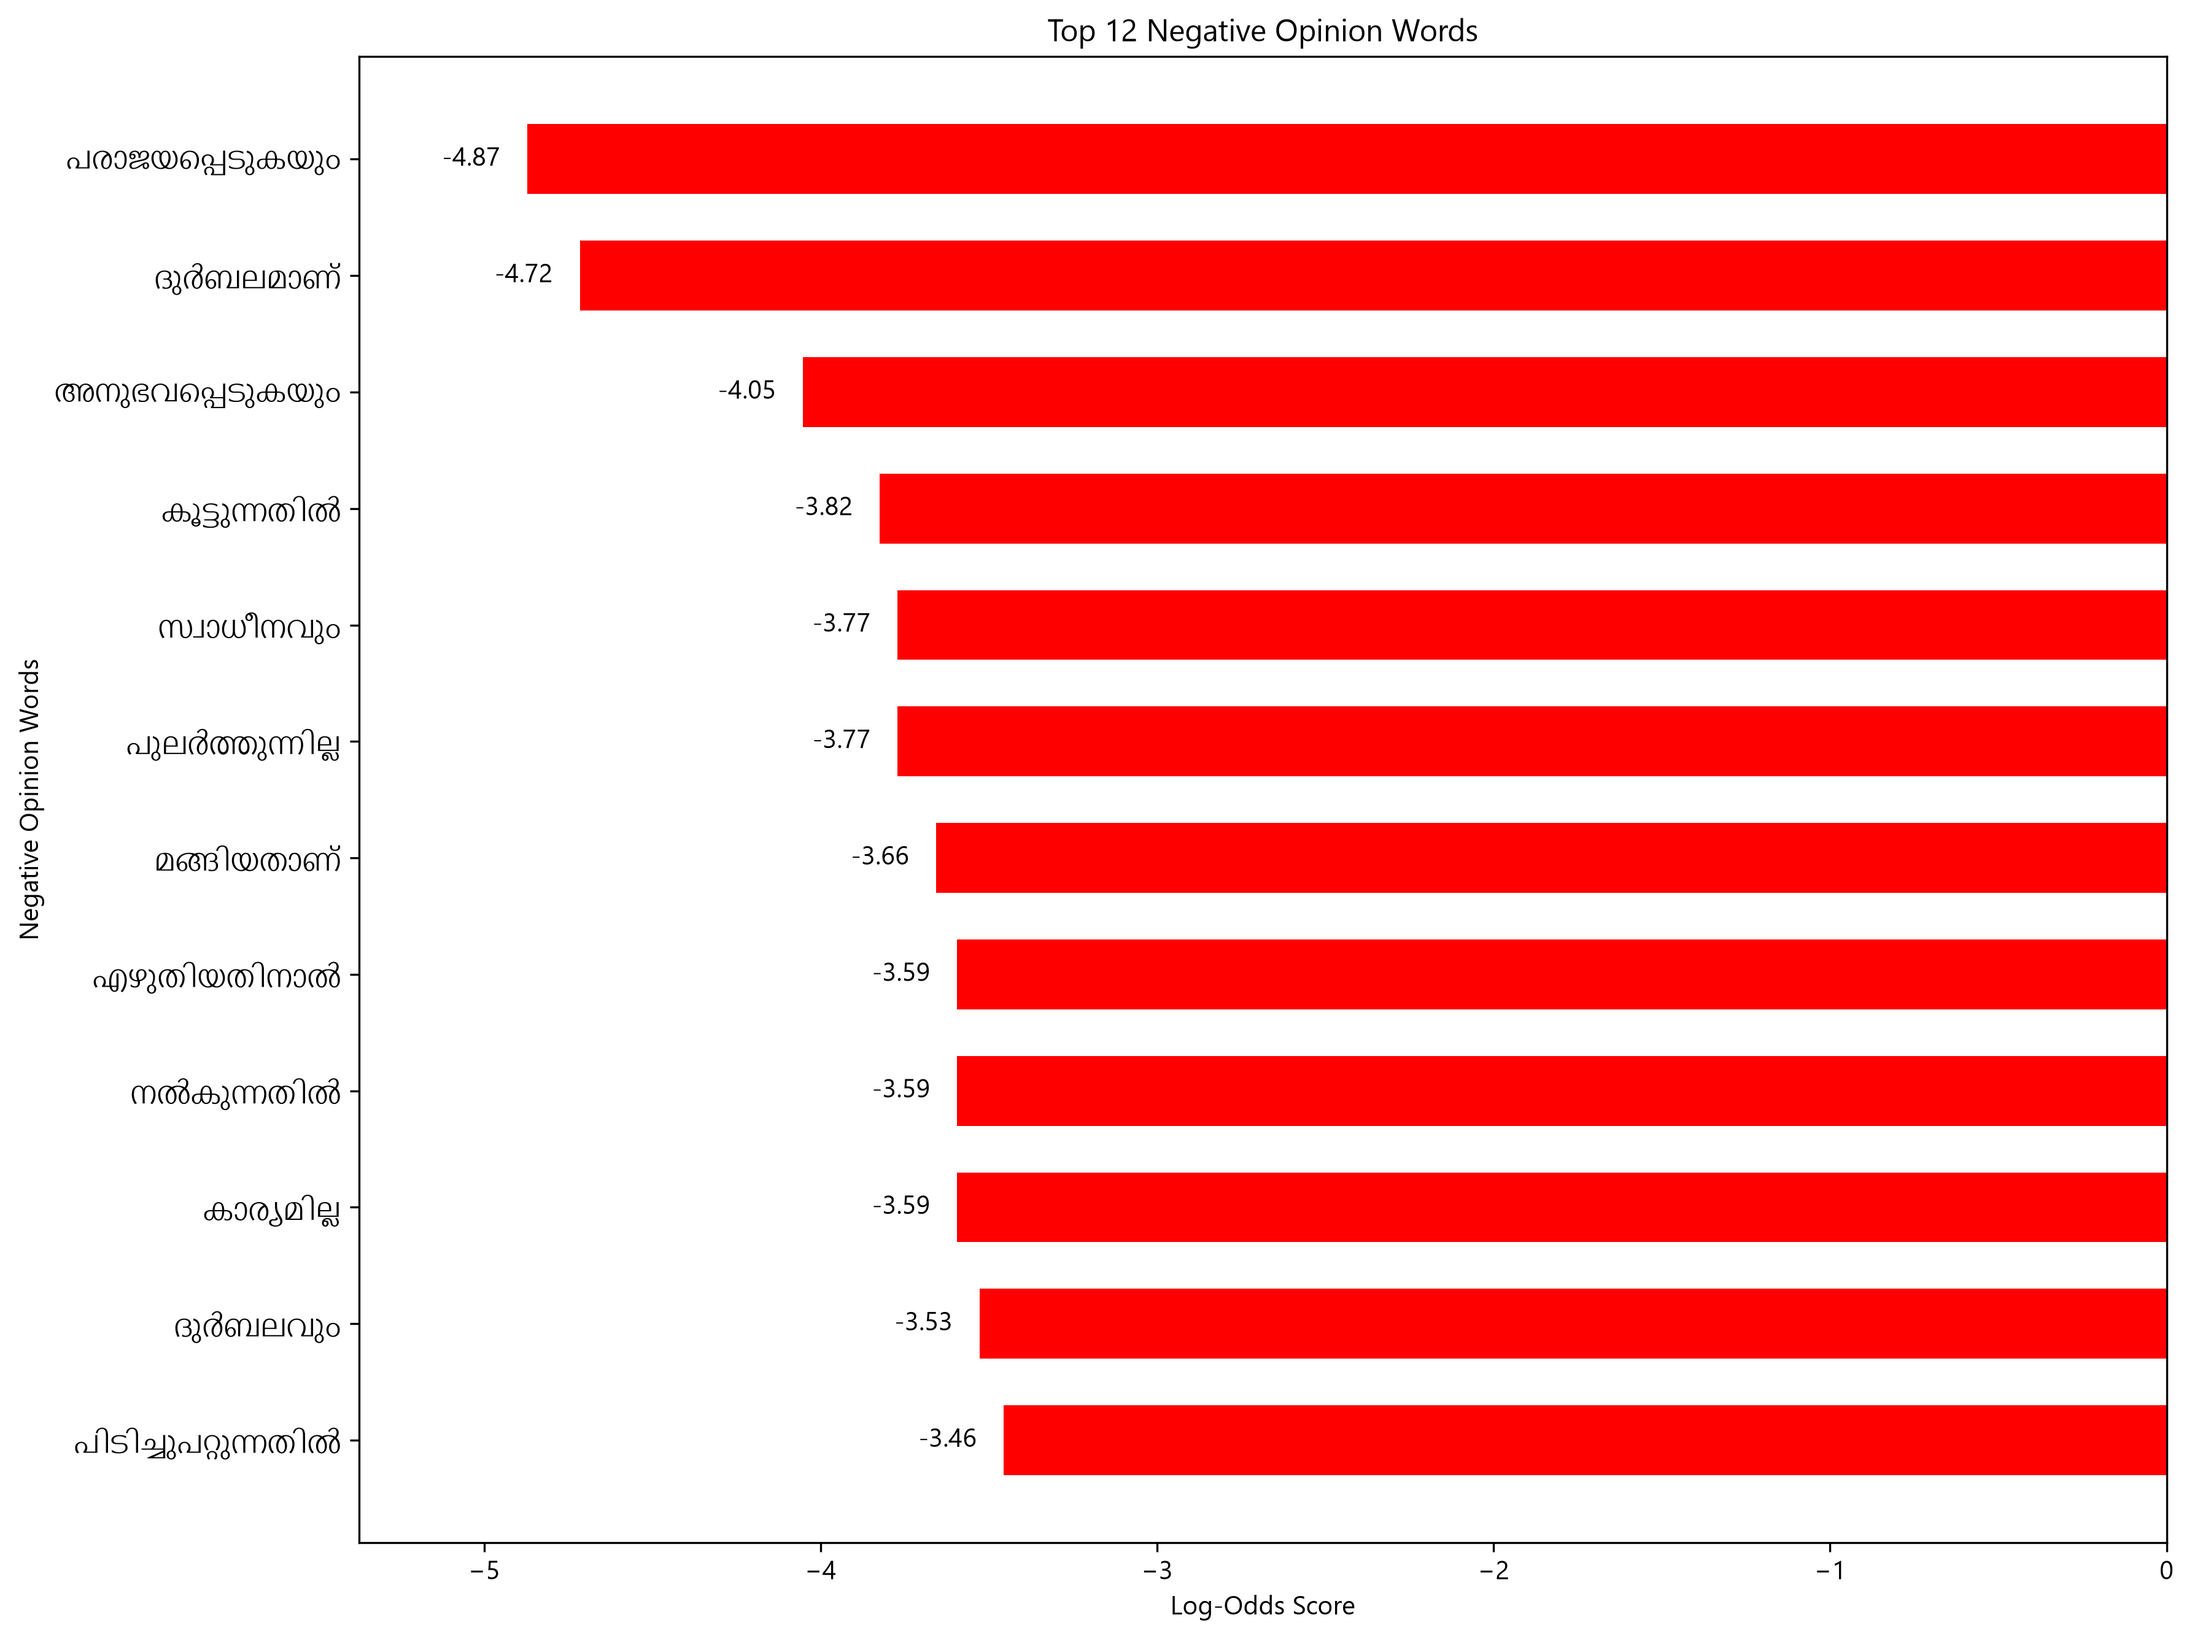
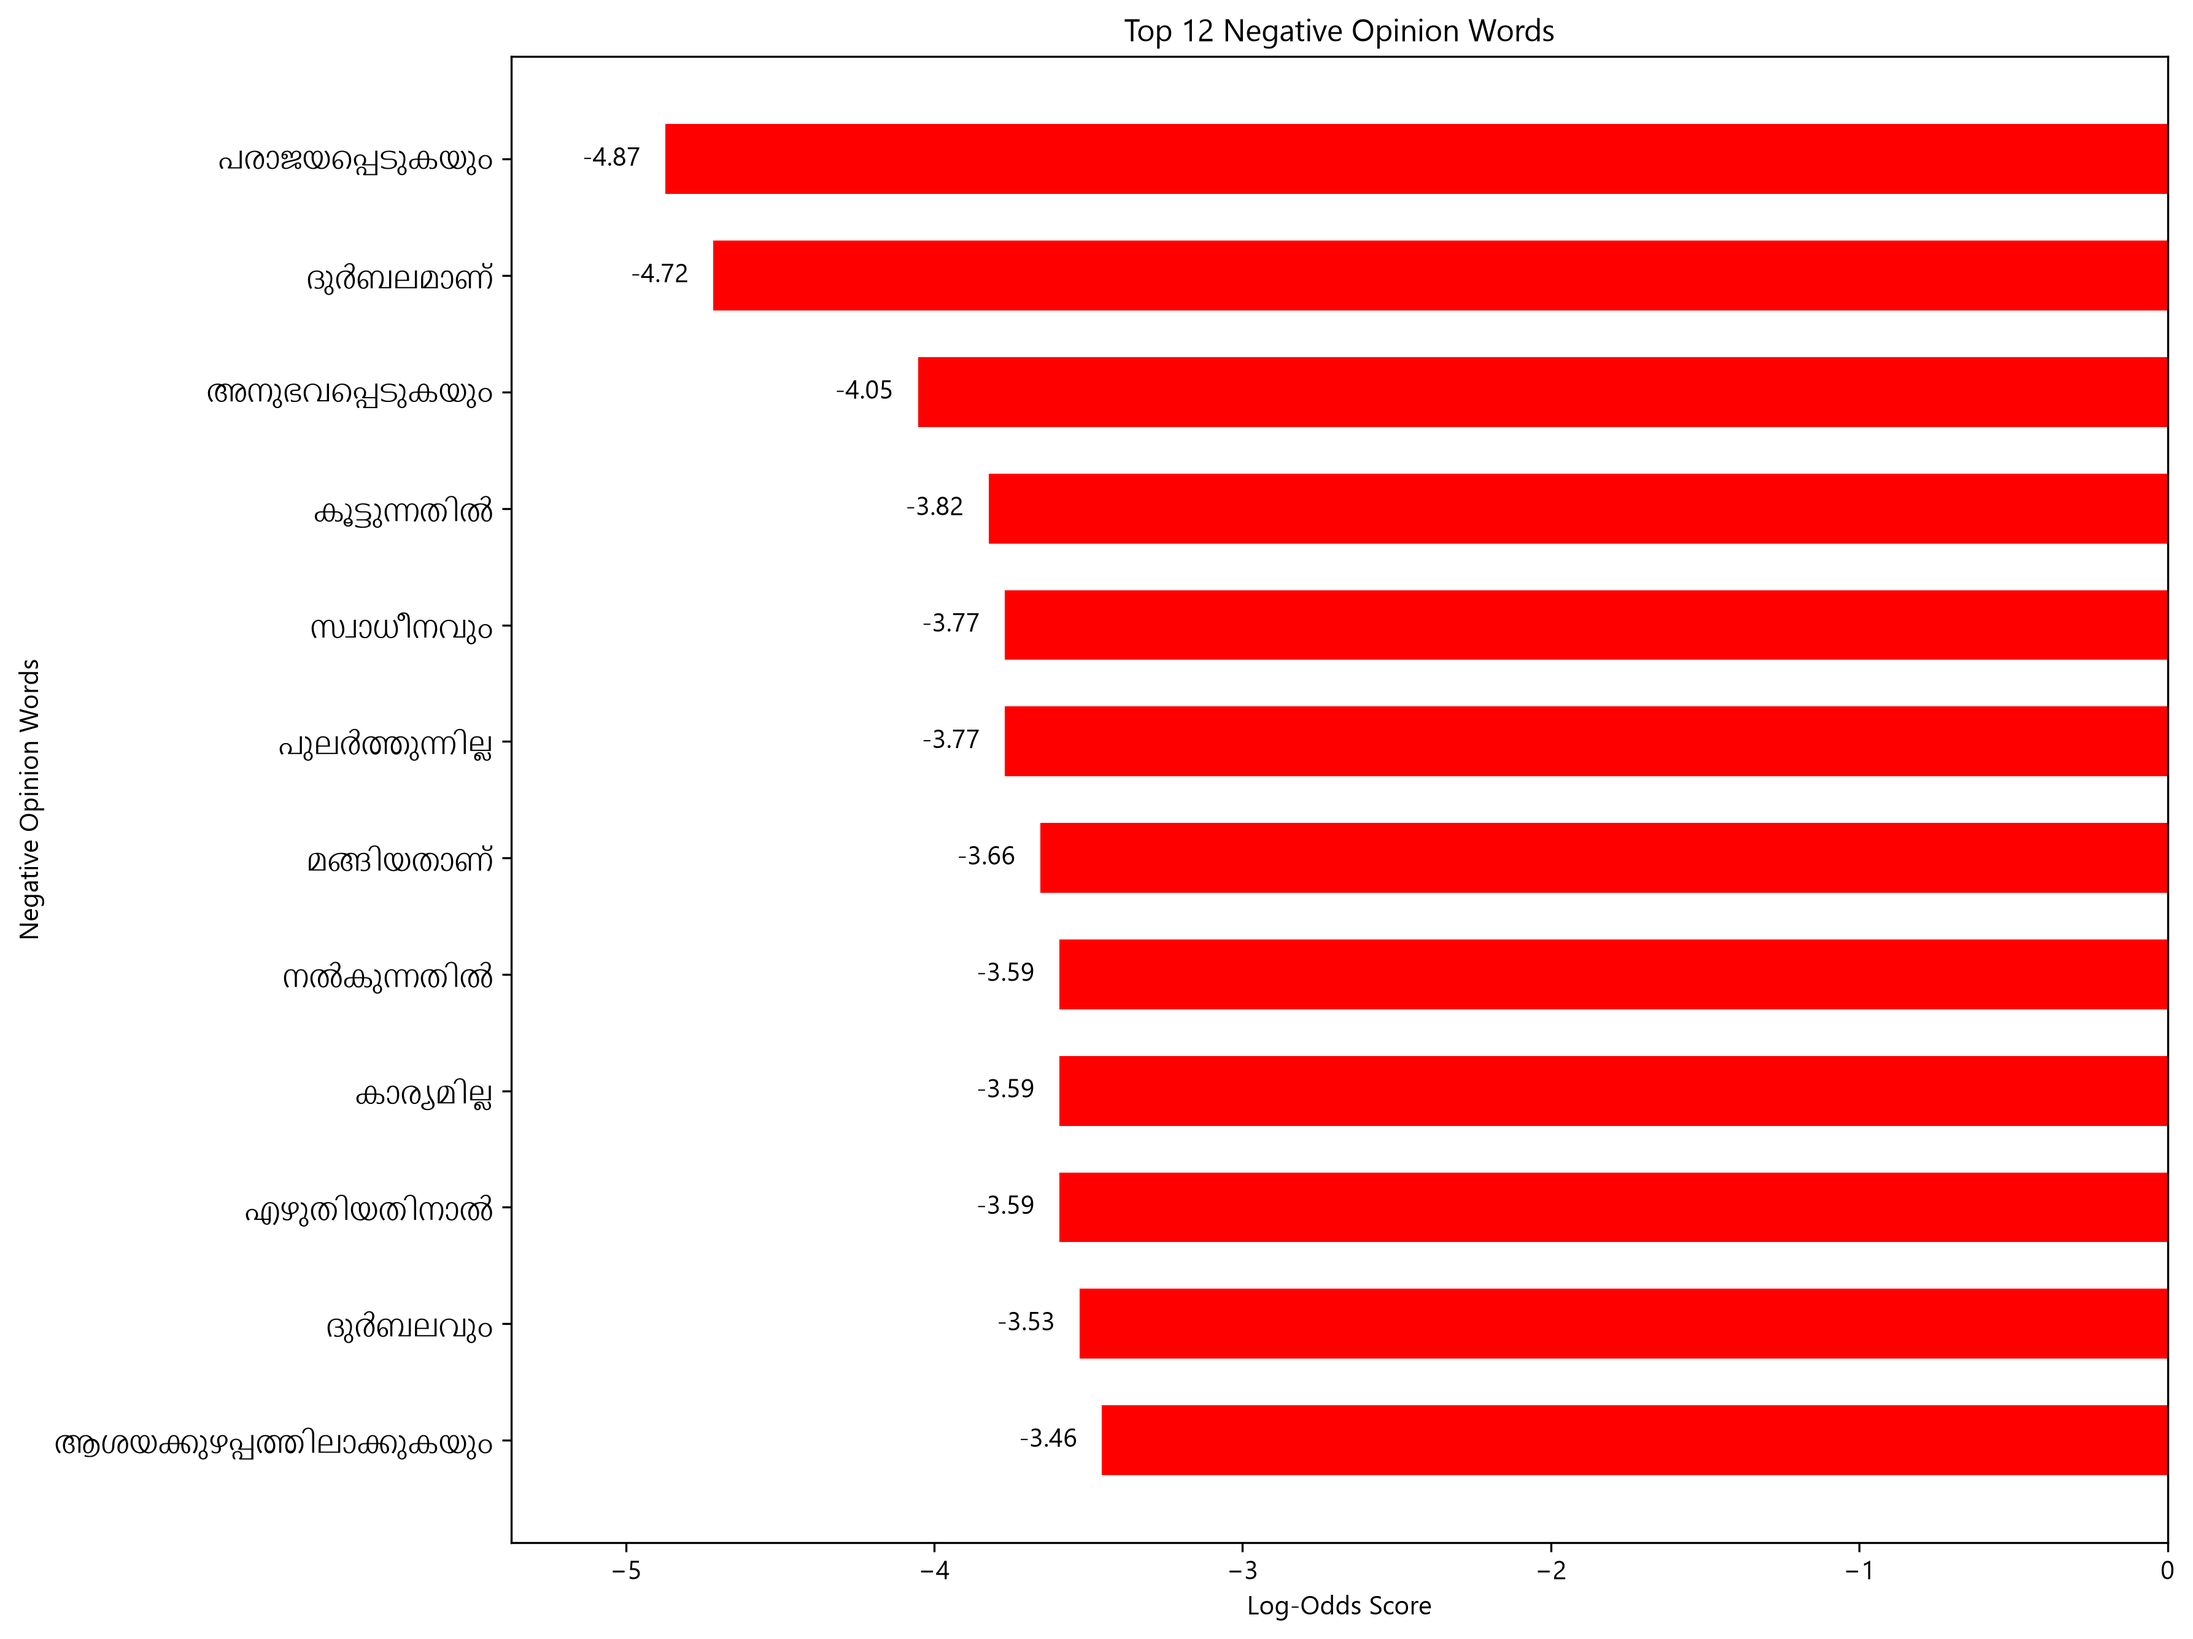
Complete Q11 Seaborn morphological visualizations

diff --git a/src/visualizer.py b/src/visualizer.py
@@ -3,8 +3,14 @@ import unicodedata
 import re
 from collections import Counter
 import math
+import seaborn as sns
 import matplotlib.pyplot as plt
+from matplotlib.patches import Patch
 plt.rcParams["font.family"] = "Nirmala UI"
+from sklearn.model_selection import train_test_split
+from sklearn.feature_extraction.text import TfidfVectorizer
+from sklearn.linear_model import LogisticRegression
+from sklearn.metrics import confusion_matrix
 
 #morphological feature extraction function
 
@@ -180,3 +186,80 @@ if __name__ == "__main__":
     plt.tight_layout()
     plt.savefig("top12_negative_opinion_words.png",dpi=300,bbox_inches="tight")
     plt.show()
+
+    #Q11 : Seaborn Violin plot
+
+    violin_data = df[["Sentiment","Chillaksharams","Vowel_Signs"]].melt(
+        id_vars="Sentiment",
+        var_name="Feature",
+        value_name="Frequency"
+    )
+
+    plt.figure(figsize=(10,6))
+    sns.violinplot(
+        x="Feature",
+        y="Frequency",
+        hue="Sentiment",
+        data=violin_data,
+        split=True,
+        inner="quart",
+        palette={0: "red", 1: "green"}
+    )
+    legend_elements = [
+        Patch(facecolor="red", label="Negative"),
+        Patch(facecolor="green", label="Positive")
+    ]
+    plt.legend(handles=legend_elements, title="Sentiment")
+    plt.title("Morphological Feature  Distribution by Sentiment")
+    plt.xlabel("Morphological Feature")
+    plt.ylabel("Frequency")
+    plt.xticks(
+        ticks=[0, 1],
+        labels=["Chillaksharams", "Vowel Signs"]
+    )
+
+    sns.despine()
+    plt.tight_layout()
+    plt.savefig("q11_morphological_feature_distribution.png", dpi=300, bbox_inches="tight")
+    plt.show()
+    plt.close()
+
+    #confusion matrix
+
+    X = df["Review"].fillna("").astype(str)
+    y = df["Sentiment"]
+    X_train, X_test, y_train, y_test = train_test_split(
+        X, 
+        y, 
+        test_size=0.2, 
+        random_state=42,
+        stratify=y
+    )
+    tfidf = TfidfVectorizer(
+        max_features=5000,
+        ngram_range=(1, 2)
+    )
+    X_train_tfidf = tfidf.fit_transform(X_train)
+    X_test_tfidf = tfidf.transform(X_test)
+    model = LogisticRegression(max_iter=1000)
+    model.fit(X_train_tfidf, y_train)
+    y_pred = model.predict(X_test_tfidf)
+
+    cm = confusion_matrix(y_test, y_pred, labels=[0, 1])
+    plt.figure(figsize=(7, 5))
+    sns.heatmap(
+        cm,
+        annot=True,
+        fmt="d",
+        cmap="Blues",
+        xticklabels=["Negative", "Positive"],
+        yticklabels=["Negative", "Positive"]
+    )
+    plt.title("Sentiment Classification Confusion Matrix")
+    plt.xlabel("Predicted Sentiment")
+    plt.ylabel("Actual Sentiment")
+    sns.despine()
+    plt.tight_layout()
+    plt.savefig("q11_confusion_matrix.png", dpi=300, bbox_inches="tight")
+    plt.show()
+    plt.close()
